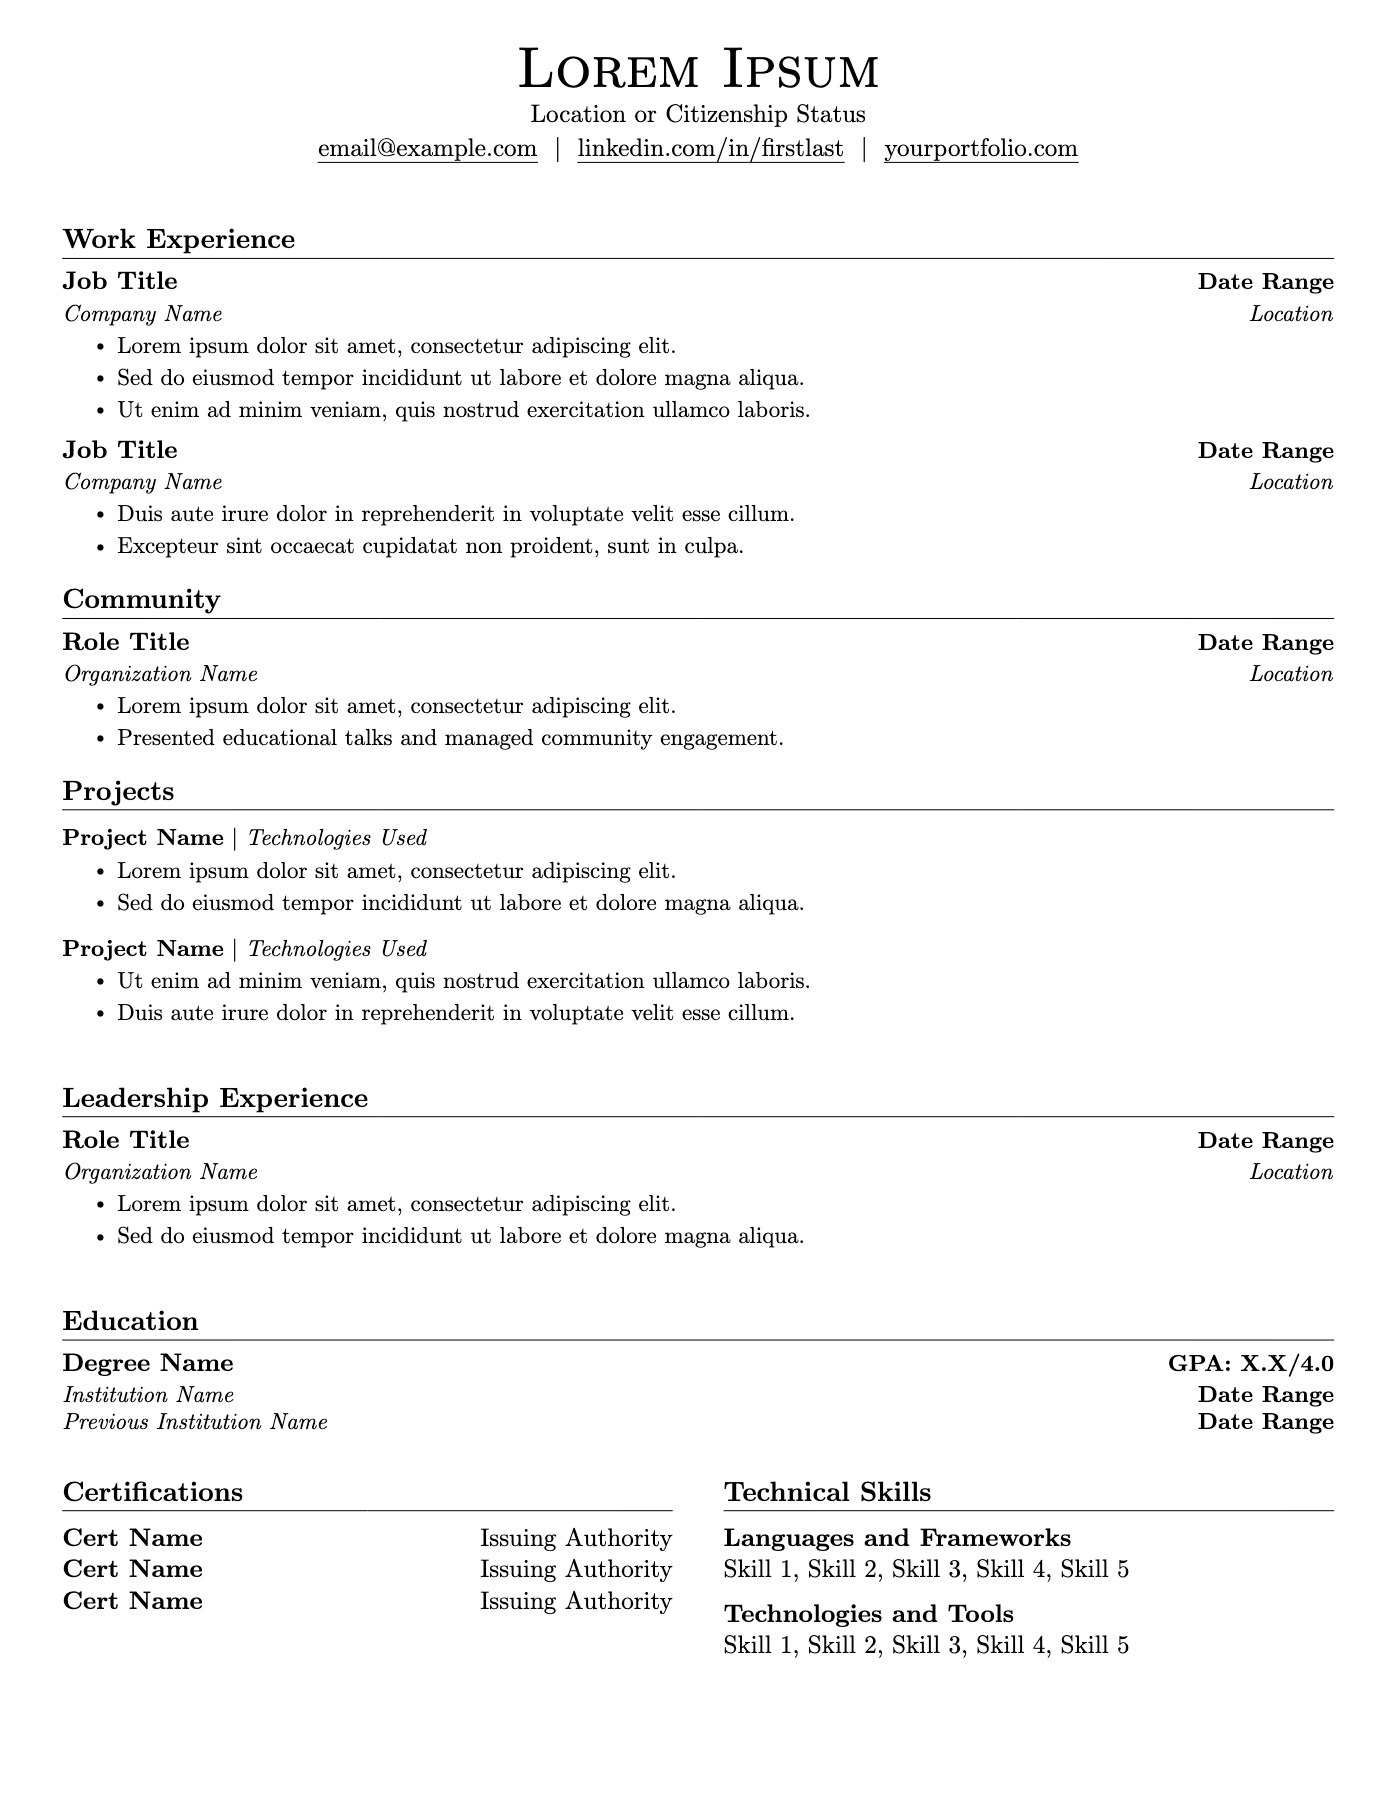
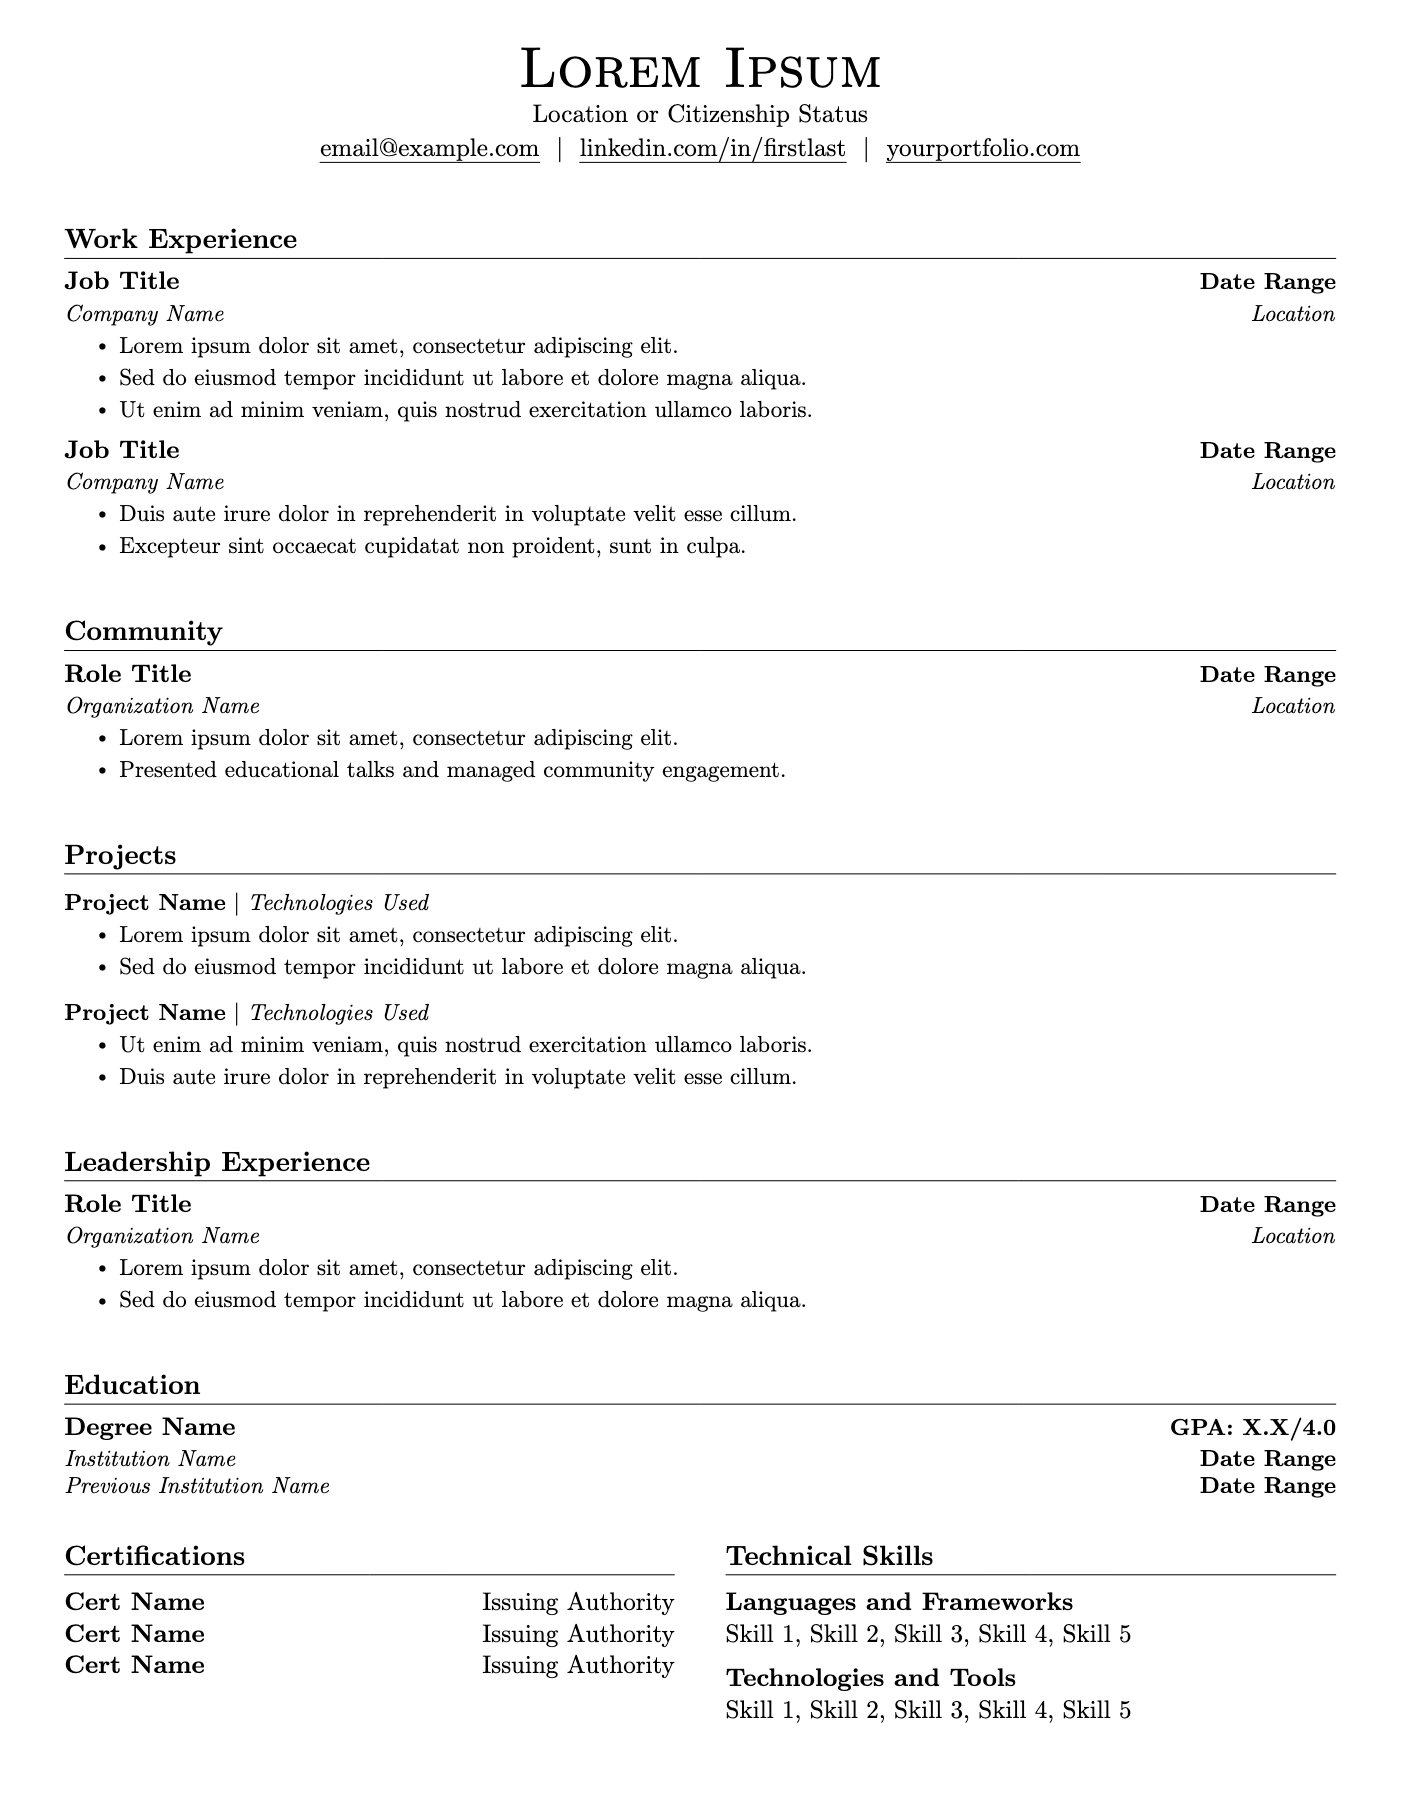
fixed spacing

diff --git a/ResumeTemplate.tex b/ResumeTemplate.tex
@@ -227,6 +227,8 @@
           \resumeItem{Excepteur sint occaecat cupidatat non proident, sunt in culpa.}
       \resumeItemListEnd
 \resumeSubHeadingListEnd
+\vspace{2pt}
+
 
 %-----------COMMUNITY-----------
 \section{Community}
@@ -239,6 +241,8 @@
                 \resumeItem{Presented educational talks and managed community engagement.}
             \resumeItemListEnd
 \resumeSubHeadingListEnd
+\vspace{2pt}
+
 
 %-----------PROJECTS-----------
 \section{Projects}
@@ -321,6 +325,8 @@
 %     \textbf{Cert Name}      & Issuing Authority or Description of the certification. \\
 %     \end{tabular}
 % \resumeSubHeadingListEnd
+% \vspace{2pt}
+
 
 % \section{Technical Skills}
 %  \begin{itemize}[leftmargin=0.15in, label={}]
@@ -331,6 +337,8 @@
 %      \textbf{Tools}{: Skill 1, Skill 2, Skill 3, Skill 4}
 %     }}
 %  \end{itemize}
+% \vspace{2pt}
+
 
 \vspace{2pt}
 
